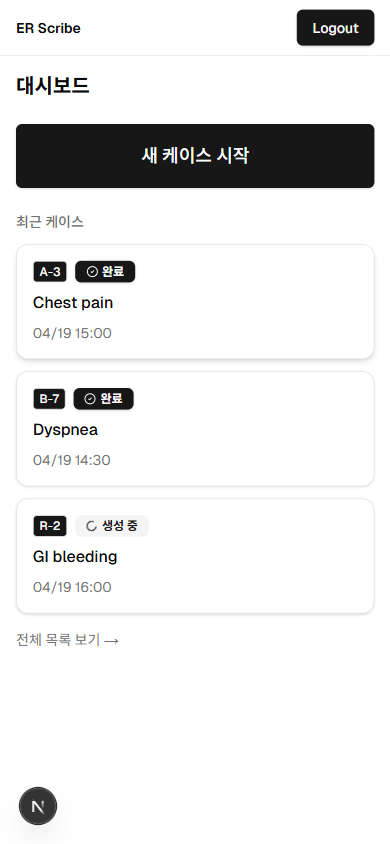
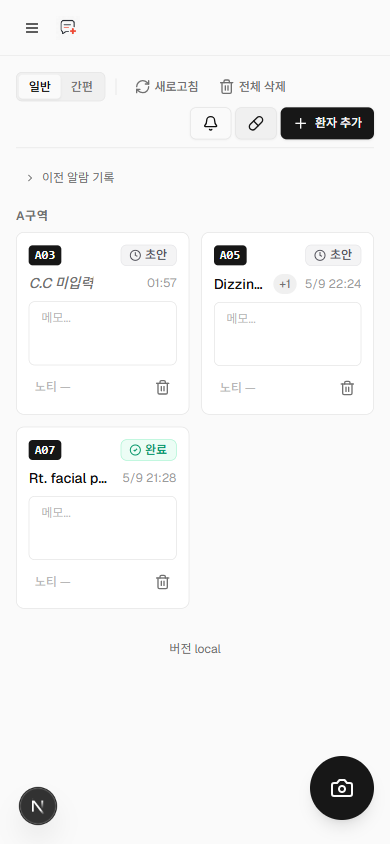
출시 전 보안 점검 — Server Actions IDOR 수정 및 API 보안 강화
- lib/cases/actions.ts: case_inputs/case_results 조작 9개 함수에 소유권 검증 추가 (IDOR 취약점 수정)
- app/api/medication/analyze-disease, analyze-warning: 입력 길이 제한(5000자), caseId 소유권 검증, 5초 쿨다운 추가
- app/api/guidelines/parse-pdf: is_admin 검증 추가 (관리자 전용 엔드포인트 보호)
- next.config.ts: X-Frame-Options, X-Content-Type-Options, Referrer-Policy, Permissions-Policy 보안 헤더 추가
- .env.example: SUPABASE_SERVICE_ROLE_KEY, GROQ_API_KEY, GEMINI_MODEL 환경변수 문서화

diff --git a/lib/cases/actions.ts b/lib/cases/actions.ts
@@ -141,7 +141,15 @@ export async function addCaseInput(
   timeTag: string | null,
   timeOffsetMinutes: number | null
 ): Promise<CaseInput> {
-  const { supabase } = await getAuthUser();
+  const { supabase, user } = await getAuthUser();
+
+  const { data: caseRow } = await supabase
+    .from("cases")
+    .select("id")
+    .eq("id", caseId)
+    .eq("user_id", user.id)
+    .single();
+  if (!caseRow) throw new Error("권한이 없습니다");
 
   const { count } = await supabase
     .from("case_inputs")
@@ -171,11 +179,33 @@ export async function addCaseInput(
   return data;
 }
 
+async function verifyResultOwnership(
+  supabase: Awaited<ReturnType<typeof createClient>>,
+  resultId: string,
+  userId: string
+): Promise<void> {
+  const { data: resultRow } = await supabase
+    .from("case_results")
+    .select("case_id")
+    .eq("id", resultId)
+    .single();
+  if (!resultRow) throw new Error("결과를 찾을 수 없습니다");
+
+  const { data: caseRow } = await supabase
+    .from("cases")
+    .select("id")
+    .eq("id", resultRow.case_id)
+    .eq("user_id", userId)
+    .single();
+  if (!caseRow) throw new Error("권한이 없습니다");
+}
+
 export async function updatePiEdited(
   resultId: string,
   text: string
 ): Promise<void> {
-  const { supabase } = await getAuthUser();
+  const { supabase, user } = await getAuthUser();
+  await verifyResultOwnership(supabase, resultId, user.id);
 
   const { error } = await supabase
     .from("case_results")
@@ -189,7 +219,8 @@ export async function updatePeEdited(
   resultId: string,
   text: string
 ): Promise<void> {
-  const { supabase } = await getAuthUser();
+  const { supabase, user } = await getAuthUser();
+  await verifyResultOwnership(supabase, resultId, user.id);
 
   const { error } = await supabase
     .from("case_results")
@@ -203,7 +234,8 @@ export async function updateTemplateEdited(
   resultId: string,
   text: string
 ): Promise<void> {
-  const { supabase } = await getAuthUser();
+  const { supabase, user } = await getAuthUser();
+  await verifyResultOwnership(supabase, resultId, user.id);
 
   const { error } = await supabase
     .from("case_results")
@@ -217,7 +249,8 @@ export async function updateHistoryEdited(
   resultId: string,
   text: string
 ): Promise<void> {
-  const { supabase } = await getAuthUser();
+  const { supabase, user } = await getAuthUser();
+  await verifyResultOwnership(supabase, resultId, user.id);
 
   const { error } = await supabase
     .from("case_results")
@@ -330,10 +363,33 @@ export async function restoreToBoard(caseId: string): Promise<void> {
   revalidatePath("/cases");
 }
 
+async function verifyCaseInputOwnership(
+  supabase: Awaited<ReturnType<typeof createClient>>,
+  cardId: string,
+  userId: string
+): Promise<void> {
+  const { data: inputRow } = await supabase
+    .from("case_inputs")
+    .select("case_id")
+    .eq("id", cardId)
+    .single();
+  if (!inputRow) throw new Error("입력을 찾을 수 없습니다");
+
+  const { data: caseRow } = await supabase
+    .from("cases")
+    .select("id")
+    .eq("id", inputRow.case_id)
+    .eq("user_id", userId)
+    .single();
+  if (!caseRow) throw new Error("권한이 없습니다");
+}
+
 export async function reorderCaseInputs(
   updates: { id: string; displayOrder: number }[]
 ): Promise<void> {
-  const { supabase } = await getAuthUser();
+  const { supabase, user } = await getAuthUser();
+  if (updates.length === 0) return;
+  await verifyCaseInputOwnership(supabase, updates[0].id, user.id);
   await Promise.all(
     updates.map(({ id, displayOrder }) =>
       supabase
@@ -348,7 +404,8 @@ export async function moveCaseInputSection(
   cardId: string,
   targetSection: "timed" | "untimed"
 ): Promise<void> {
-  const { supabase } = await getAuthUser();
+  const { supabase, user } = await getAuthUser();
+  await verifyCaseInputOwnership(supabase, cardId, user.id);
   const { error } = await supabase
     .from("case_inputs")
     .update(
@@ -391,7 +448,8 @@ export async function deleteCase(caseId: string): Promise<void> {
 }
 
 export async function deleteCaseInput(cardId: string): Promise<void> {
-  const { supabase } = await getAuthUser();
+  const { supabase, user } = await getAuthUser();
+  await verifyCaseInputOwnership(supabase, cardId, user.id);
   const { error } = await supabase
     .from("case_inputs")
     .delete()
@@ -403,7 +461,8 @@ export async function updateCaseInputText(
   cardId: string,
   rawText: string
 ): Promise<CaseInput> {
-  const { supabase } = await getAuthUser();
+  const { supabase, user } = await getAuthUser();
+  await verifyCaseInputOwnership(supabase, cardId, user.id);
   const { data, error } = await supabase
     .from("case_inputs")
     .update({ raw_text: rawText })

diff --git a/app/api/medication/analyze-warning/route.ts b/app/api/medication/analyze-warning/route.ts
@@ -19,6 +19,45 @@ export async function POST(req: NextRequest) {
   const body = await req.json();
   const { medList, caseId } = body as { medList: string; caseId?: string };
 
+  if (!medList || typeof medList !== "string") {
+    return NextResponse.json(
+      { error: "약물 목록이 없습니다." },
+      { status: 400 }
+    );
+  }
+  if (medList.length > 5000) {
+    return NextResponse.json(
+      { error: "약물 목록이 너무 깁니다. (최대 5000자)" },
+      { status: 400 }
+    );
+  }
+
+  // caseId 소유권 검증
+  if (caseId) {
+    const { data: caseRow } = await supabase
+      .from("cases")
+      .select("user_id")
+      .eq("id", caseId)
+      .single();
+    if (!caseRow || caseRow.user_id !== user.id) {
+      return NextResponse.json({ error: "Forbidden" }, { status: 403 });
+    }
+  }
+
+  // 5초 이내 중복 요청 방지
+  const fiveSecondsAgo = new Date(Date.now() - 5_000);
+  const { count: recentCount } = await supabase
+    .from("ai_usage_logs")
+    .select("id", { count: "exact", head: true })
+    .eq("user_id", user.id)
+    .gte("created_at", fiveSecondsAgo.toISOString());
+  if ((recentCount ?? 0) > 0) {
+    return NextResponse.json(
+      { error: "너무 빠른 재시도입니다. 잠시 후 다시 시도해주세요." },
+      { status: 429 }
+    );
+  }
+
   let result: string;
   try {
     result = await generateMedAnalysisText(

diff --git a/app/api/medication/analyze-disease/route.ts b/app/api/medication/analyze-disease/route.ts
@@ -23,6 +23,45 @@ export async function POST(req: NextRequest) {
     caseId?: string;
   };
 
+  if (!medList || typeof medList !== "string") {
+    return NextResponse.json(
+      { error: "약물 목록이 없습니다." },
+      { status: 400 }
+    );
+  }
+  if (medList.length > 5000) {
+    return NextResponse.json(
+      { error: "약물 목록이 너무 깁니다. (최대 5000자)" },
+      { status: 400 }
+    );
+  }
+
+  // caseId 소유권 검증
+  if (caseId) {
+    const { data: caseRow } = await supabase
+      .from("cases")
+      .select("user_id")
+      .eq("id", caseId)
+      .single();
+    if (!caseRow || caseRow.user_id !== user.id) {
+      return NextResponse.json({ error: "Forbidden" }, { status: 403 });
+    }
+  }
+
+  // 5초 이내 중복 요청 방지
+  const fiveSecondsAgo = new Date(Date.now() - 5_000);
+  const { count: recentCount } = await supabase
+    .from("ai_usage_logs")
+    .select("id", { count: "exact", head: true })
+    .eq("user_id", user.id)
+    .gte("created_at", fiveSecondsAgo.toISOString());
+  if ((recentCount ?? 0) > 0) {
+    return NextResponse.json(
+      { error: "너무 빠른 재시도입니다. 잠시 후 다시 시도해주세요." },
+      { status: 429 }
+    );
+  }
+
   const prompt =
     "다음은 환자의 현재 약물 목록입니다:\n" +
     medList +

diff --git a/next.config.ts b/next.config.ts
@@ -1,5 +1,24 @@
 import type { NextConfig } from "next";
 
-const nextConfig: NextConfig = {};
+const securityHeaders = [
+  { key: "X-Content-Type-Options", value: "nosniff" },
+  { key: "X-Frame-Options", value: "SAMEORIGIN" },
+  { key: "Referrer-Policy", value: "strict-origin-when-cross-origin" },
+  {
+    key: "Permissions-Policy",
+    value: "camera=(), microphone=(self), geolocation=()",
+  },
+];
+
+const nextConfig: NextConfig = {
+  async headers() {
+    return [
+      {
+        source: "/(.*)",
+        headers: securityHeaders,
+      },
+    ];
+  },
+};
 
 export default nextConfig;

diff --git a/app/api/guidelines/parse-pdf/route.ts b/app/api/guidelines/parse-pdf/route.ts
@@ -12,6 +12,15 @@ export async function POST(req: NextRequest) {
     return NextResponse.json({ error: "Unauthorized" }, { status: 401 });
   }
 
+  const { data: profile } = await supabase
+    .from("profiles")
+    .select("is_admin")
+    .eq("id", user.id)
+    .single();
+  if (!profile?.is_admin) {
+    return NextResponse.json({ error: "Forbidden" }, { status: 403 });
+  }
+
   const formData = await req.formData();
   const file = formData.get("file");
   const guideKey = formData.get("guideKey");
